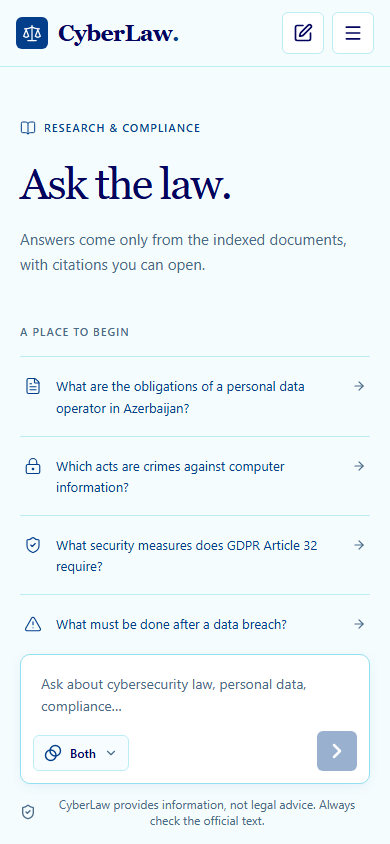
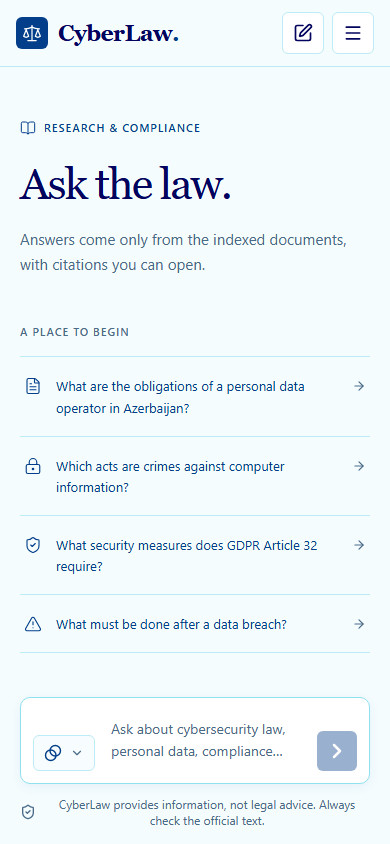
Refine chat composer placement and focus styling

Changed region(s): [[0.0923, 0.8009, 0.8, 0.9242], [0.9231, 0.7701, 0.9538, 0.8318]]

diff --git a/design-preview/index.html b/design-preview/index.html
@@ -3,7 +3,7 @@
 <style>
 *{box-sizing:border-box}body{margin:0;background:#f4fcfe;color:#03045e;font:14px/1.6 'Segoe UI',sans-serif}main{max-width:1400px;margin:auto;padding:48px 40px 80px}header{border-bottom:1px solid #ade8f4;padding-bottom:32px;margin-bottom:32px}.eyebrow{font-size:11px;color:#023e8a;letter-spacing:.12em;text-transform:uppercase}h1{font:400 48px/1.1 Georgia,serif;letter-spacing:-2px;margin:16px 0}p{color:#496b88;max-width:760px}.links{display:flex;gap:24px;flex-wrap:wrap;margin-top:24px}.links a{color:#023e8a;text-decoration:none;border-bottom:1px solid #48cae4}h2{font:400 28px Georgia,serif;margin:48px 0 20px}.grid{display:grid;grid-template-columns:repeat(2,minmax(0,1fr));gap:24px}.card{display:block;text-decoration:none;color:inherit;background:white;border:1px solid #ade8f4;border-radius:8px;overflow:hidden;transition:border-color .15s}.card:hover{border-color:#023e8a}.image{background:#caf0f8;aspect-ratio:1.44;overflow:hidden}.image img{display:block;width:100%;height:100%;object-fit:cover;object-position:top}.caption{display:flex;justify-content:space-between;align-items:center;padding:16px 18px;border-top:1px solid #ade8f4}.mobile-grid{grid-template-columns:repeat(4,minmax(0,1fr))}.mobile .image{aspect-ratio:390/844}.mobile .image img{object-fit:cover}.note{padding:20px 0;border-top:1px solid #ade8f4;margin-top:48px;font-size:12px;color:#496b88}a:focus-visible{outline:2px solid #023e8a;outline-offset:4px}@media(max-width:800px){main{padding:28px 20px 50px}h1{font-size:36px}.grid{grid-template-columns:1fr}.mobile-grid{grid-template-columns:repeat(2,minmax(0,1fr))}}@media(max-width:430px){.mobile-grid{grid-template-columns:1fr}}
 .palette{display:grid;grid-template-columns:repeat(8,minmax(0,1fr));margin:28px 0 4px;border-radius:8px;overflow:hidden}.swatch{height:80px;display:flex;align-items:flex-end;padding:10px;font:11px monospace}@media(max-width:800px){.palette{grid-template-columns:repeat(4,minmax(0,1fr))}}@media(max-width:430px){.swatch{padding:8px;font-size:10px}}</style></head><body><main><header><div class="eyebrow">CyberLaw / Blue palette / design/blue-workspace</div><h1>A legal workspace in blue.</h1><p>Deep navy navigation, royal blue actions, pale cyan surfaces, and editorial headings across the existing application. These are screenshots of the implemented interface, using sample data.</p><nav class="links"><span>Green version: switch to design/legal-workspace</span><a href="#desktop">Desktop screens</a><a href="#mobile">Mobile screens</a><a href="README.md">Review notes</a><a href="verification.json">Browser check results</a></nav><div class="palette" aria-label="Supplied colour palette"><div class="swatch" style="background:#03045e;color:#fff"><span>#03045E</span></div><div class="swatch" style="background:#023e8a;color:#fff"><span>#023E8A</span></div><div class="swatch" style="background:#0096c7;color:#03045e"><span>#0096C7</span></div><div class="swatch" style="background:#00b4d8;color:#03045e"><span>#00B4D8</span></div><div class="swatch" style="background:#48cae4;color:#03045e"><span>#48CAE4</span></div><div class="swatch" style="background:#90e0ef;color:#03045e"><span>#90E0EF</span></div><div class="swatch" style="background:#ade8f4;color:#03045e"><span>#ADE8F4</span></div><div class="swatch" style="background:#caf0f8;color:#03045e"><span>#CAF0F8</span></div></div></header>
-<h2 id="desktop">Desktop</h2><div class="grid"><a class="card desktop" href="03-chat.png" target="_blank" rel="noopener"><div class="image"><img src="03-chat.png" alt="Chat workspace" loading="lazy"></div><div class="caption"><span>Chat workspace</span><span aria-hidden>↗</span></div></a>
+<h2 id="desktop">Desktop</h2><div class="grid"><a class="card desktop" href="21-composer-focused.png" target="_blank" rel="noopener"><div class="image"><img src="21-composer-focused.png" alt="Updated composer ? typing" loading="lazy"></div><div class="caption"><span>Updated composer ? typing</span><span aria-hidden>?</span></div></a><a class="card desktop" href="03-chat.png" target="_blank" rel="noopener"><div class="image"><img src="03-chat.png" alt="Chat workspace" loading="lazy"></div><div class="caption"><span>Chat workspace</span><span aria-hidden>↗</span></div></a>
 <a class="card desktop" href="01-sign-in.png" target="_blank" rel="noopener"><div class="image"><img src="01-sign-in.png" alt="Sign in" loading="lazy"></div><div class="caption"><span>Sign in</span><span aria-hidden>↗</span></div></a>
 <a class="card desktop" href="07-documents.png" target="_blank" rel="noopener"><div class="image"><img src="07-documents.png" alt="Documents &amp; official library" loading="lazy"></div><div class="caption"><span>Documents &amp; official library</span><span aria-hidden>↗</span></div></a>
 <a class="card desktop" href="08-compliance.png" target="_blank" rel="noopener"><div class="image"><img src="08-compliance.png" alt="Compliance check" loading="lazy"></div><div class="caption"><span>Compliance check</span><span aria-hidden>↗</span></div></a>
@@ -15,7 +15,7 @@
 <a class="card desktop" href="04-search-scope.png" target="_blank" rel="noopener"><div class="image"><img src="04-search-scope.png" alt="Search scope menu" loading="lazy"></div><div class="caption"><span>Search scope menu</span><span aria-hidden>↗</span></div></a>
 <a class="card desktop" href="02-create-account.png" target="_blank" rel="noopener"><div class="image"><img src="02-create-account.png" alt="Create account" loading="lazy"></div><div class="caption"><span>Create account</span><span aria-hidden>↗</span></div></a>
 <a class="card desktop" href="10-report-print.png" target="_blank" rel="noopener"><div class="image"><img src="10-report-print.png" alt="Report print layout" loading="lazy"></div><div class="caption"><span>Report print layout</span><span aria-hidden>↗</span></div></a>
-<a class="card desktop" href="18-chat-az.png" target="_blank" rel="noopener"><div class="image"><img src="18-chat-az.png" alt="Azerbaijani workspace" loading="lazy"></div><div class="caption"><span>Azerbaijani workspace</span><span aria-hidden>↗</span></div></a></div><h2 id="mobile">Mobile</h2><div class="grid mobile-grid"><a class="card mobile" href="13-mobile-chat.png" target="_blank" rel="noopener"><div class="image"><img src="13-mobile-chat.png" alt="Mobile chat" loading="lazy"></div><div class="caption"><span>Mobile chat</span><span aria-hidden>↗</span></div></a>
+<a class="card desktop" href="18-chat-az.png" target="_blank" rel="noopener"><div class="image"><img src="18-chat-az.png" alt="Azerbaijani workspace" loading="lazy"></div><div class="caption"><span>Azerbaijani workspace</span><span aria-hidden>↗</span></div></a></div><h2 id="mobile">Mobile</h2><div class="grid mobile-grid"><a class="card mobile" href="22-mobile-composer-focused.png" target="_blank" rel="noopener"><div class="image"><img src="22-mobile-composer-focused.png" alt="Mobile composer ? typing" loading="lazy"></div><div class="caption"><span>Mobile composer ? typing</span><span aria-hidden>?</span></div></a><a class="card mobile" href="13-mobile-chat.png" target="_blank" rel="noopener"><div class="image"><img src="13-mobile-chat.png" alt="Mobile chat" loading="lazy"></div><div class="caption"><span>Mobile chat</span><span aria-hidden>↗</span></div></a>
 <a class="card mobile" href="14-mobile-navigation.png" target="_blank" rel="noopener"><div class="image"><img src="14-mobile-navigation.png" alt="Mobile navigation" loading="lazy"></div><div class="caption"><span>Mobile navigation</span><span aria-hidden>↗</span></div></a>
 <a class="card mobile" href="15-mobile-documents.png" target="_blank" rel="noopener"><div class="image"><img src="15-mobile-documents.png" alt="Mobile documents" loading="lazy"></div><div class="caption"><span>Mobile documents</span><span aria-hidden>↗</span></div></a>
 <a class="card mobile" href="16-mobile-compliance.png" target="_blank" rel="noopener"><div class="image"><img src="16-mobile-compliance.png" alt="Mobile compliance" loading="lazy"></div><div class="caption"><span>Mobile compliance</span><span aria-hidden>↗</span></div></a>

diff --git a/frontend/src/pages/ChatPage.tsx b/frontend/src/pages/ChatPage.tsx
@@ -139,39 +139,35 @@ export function ChatPage() {
           )}
         </div>
 
-        {/* The search scope and send control sit below the writing area. */}
+        {/* Search scope, writing area and send control share one composer. */}
         <div className="chat-composer">
           <div className="composer-box">
-            <div>
-              <textarea
-                ref={textarea}
-                rows={1}
-                value={input}
-                onChange={(e) => setInput(e.target.value)}
-                onKeyDown={onKey}
-                placeholder={t('chat.placeholder')}
-                maxLength={config?.maxQuestionLength}
-                aria-label={t('chat.placeholder')}
-                className="chat-textarea"
-              />
-              <div className="flex items-end justify-between gap-3 px-3 pb-3">
-              <ScopePicker scope={scope} onChange={setScope} />
-              {/* while an answer is being written, the send button stops it */}
-              <button
-                className="composer-send shrink-0"
-                disabled={!busy && !input.trim()}
-                onClick={() => (busy ? stop() : send())}
-                aria-label={busy ? t('chat.stop') : t('chat.send')}
-                title={busy ? t('chat.stop') : t('chat.send')}
-              >
-                {busy ? (
-                  <Square className="h-4 w-4 fill-current" />
-                ) : (
-                  <ChevronRight className="h-6 w-6" strokeWidth={2.5} />
-                )}
-              </button>
-              </div>
-            </div>
+            <ScopePicker scope={scope} onChange={setScope} />
+            <textarea
+              ref={textarea}
+              rows={1}
+              value={input}
+              onChange={(e) => setInput(e.target.value)}
+              onKeyDown={onKey}
+              placeholder={t('chat.placeholder')}
+              maxLength={config?.maxQuestionLength}
+              aria-label={t('chat.placeholder')}
+              className="chat-textarea"
+            />
+            {/* while an answer is being written, the send button stops it */}
+            <button
+              className="composer-send shrink-0"
+              disabled={!busy && !input.trim()}
+              onClick={() => (busy ? stop() : send())}
+              aria-label={busy ? t('chat.stop') : t('chat.send')}
+              title={busy ? t('chat.stop') : t('chat.send')}
+            >
+              {busy ? (
+                <Square className="h-4 w-4 fill-current" />
+              ) : (
+                <ChevronRight className="h-6 w-6" strokeWidth={2.5} />
+              )}
+            </button>
           </div>
           <p className="mt-3 flex items-center justify-center gap-2 text-center text-xs text-muted">
             <ShieldCheck className="h-4 w-4 shrink-0 text-muted" />

diff --git a/frontend/src/index.css b/frontend/src/index.css
@@ -39,7 +39,7 @@ body {
 * { scrollbar-width: thin; scrollbar-color: #90e0ef transparent; }
 button:not(:disabled), a, select { -webkit-tap-highlight-color: transparent; }
 button:not(:disabled) { cursor: pointer; }
-:focus-visible { outline: 2px solid var(--color-neon); outline-offset: 4px; }
+:focus-visible:not(.chat-textarea) { outline: 2px solid var(--color-neon); outline-offset: 4px; }
 
 @layer components {
   .brand-mark { background: var(--color-neon); color: #fff; }
@@ -122,9 +122,9 @@ button:not(:disabled) { cursor: pointer; }
   .chat-suggestion { display: flex; align-items: flex-start; gap: 0.875rem; min-height: 6.5rem; padding: 1.375rem 0.25rem; border-bottom: 1px solid var(--color-line); text-align: left; color: #023e8a; transition: color 160ms, background 160ms; }
   .chat-suggestion:hover { color: var(--color-neon); background: #caf0f850; }
   .chat-composer { position: sticky; bottom: 0; margin-top: 1.5rem; padding: 1rem 0 1.125rem; background: var(--color-void); }
-  .composer-box { border: 1px solid #90e0ef; border-radius: 0.625rem; background: #fff; box-shadow: 0 3px 12px #023e8a0f; transition: border-color 160ms, box-shadow 160ms; }
-  .composer-box:focus-within { border-color: var(--color-ocean); box-shadow: 0 0 0 3px #0096c718; }
-  .chat-textarea { display: block; width: 100%; min-height: 4.75rem; max-height: 200px; resize: none; background: transparent; padding: 1.125rem 1.25rem 0.5rem; font-size: 0.875rem; line-height: 1.6; outline: none; }
+  .composer-box { display: flex; align-items: flex-end; gap: 0.75rem; padding: 0.75rem; border: 1px solid #90e0ef; border-radius: 0.625rem; background: #fff; box-shadow: 0 3px 12px #023e8a0f; transition: border-color 160ms; }
+  .composer-box:focus-within { border-color: var(--color-ocean); }
+  .chat-textarea { display: block; flex: 1; min-width: 0; min-height: 2.5rem; max-height: 200px; resize: none; border: 0; background: transparent; padding: 0.5rem 0.25rem; font-size: 0.875rem; line-height: 1.6; outline: none; box-shadow: none; }
   .chat-textarea::placeholder { color: #496b88; }
   .composer-send { display: grid; place-items: center; width: 2.5rem; height: 2.5rem; border-radius: 0.375rem; color: #fff; background: var(--color-neon); transition: background 160ms; }
   .composer-send:hover { background: #03045e; }

diff --git a/frontend/src/components/ScopePicker.tsx b/frontend/src/components/ScopePicker.tsx
@@ -37,11 +37,12 @@ export function ScopePicker({ scope, onChange }: { scope: SearchScope; onChange:
         onClick={() => setOpen(!open)}
         aria-haspopup="menu"
         aria-expanded={open}
+        aria-label={`${t('chat.scope')}: ${t(`chat.scope.${scope}`)}`}
         title={`${t('chat.scope')}: ${t(`chat.scope.${scope}`)}`}
         className="flex h-9 items-center gap-2 rounded-md border border-line bg-void/70 px-2.5 text-xs font-medium text-ink transition-colors hover:border-neon/50 hover:text-ink"
       >
         <Current className="h-4.5 w-4.5 text-neon" strokeWidth={1.9} />
-        <span className="inline">{t(`chat.scope.${scope}`)}</span>
+        <span className="hidden sm:inline">{t(`chat.scope.${scope}`)}</span>
         <ChevronDown className={`h-3.5 w-3.5 text-muted transition-transform ${open ? 'rotate-180' : ''}`} />
       </button>
 

diff --git a/design-preview/README.md b/design-preview/README.md
@@ -27,11 +27,19 @@ The blue design is committed on `design/blue-workspace`; the green design is com
 
 Switch normally from the main project folder with `git switch design/legal-workspace` or `git switch design/blue-workspace`. Run `npm.cmd run dev` in `frontend`; its API proxy points to the existing backend on port 8080. The gallery opens directly from disk.
 
+## Composer refinements
+
+The search scope sits inside the left edge of the composer, next to the writing area; Send stays on the right. On narrow screens the scope keeps its icon, dropdown arrow and accessible label while leaving room for typing.
+
+Focusing the writing area changes the existing outer border colour. The duplicate inner outline and outer focus halo are removed; keyboard focus indicators remain on the other controls.
+
+Focused browser checks: [composer-verification.json](composer-verification.json).
+
 ## Validation
 
 - `npm.cmd run typecheck` passes.
 - `npm.cmd run build` passes, with Vite's bundle-size advisory for the existing main JavaScript chunk.
 - [Browser results](verification.json): registration fields, login payload, search scope options, streamed answers, citations, compliance navigation, report filters, mobile navigation and phone-width overflow checks.
-- Twenty screenshots cover desktop and mobile, including English and Azerbaijani.
+- Twenty-two screenshots cover desktop and mobile, including English and Azerbaijani.
 
 Screenshots render the actual React interface using isolated sample API responses. No real account, documents, or backend records were changed. External fonts were disabled during capture, so the configured system fallbacks appear. Live backend and AI calls were not retested.
